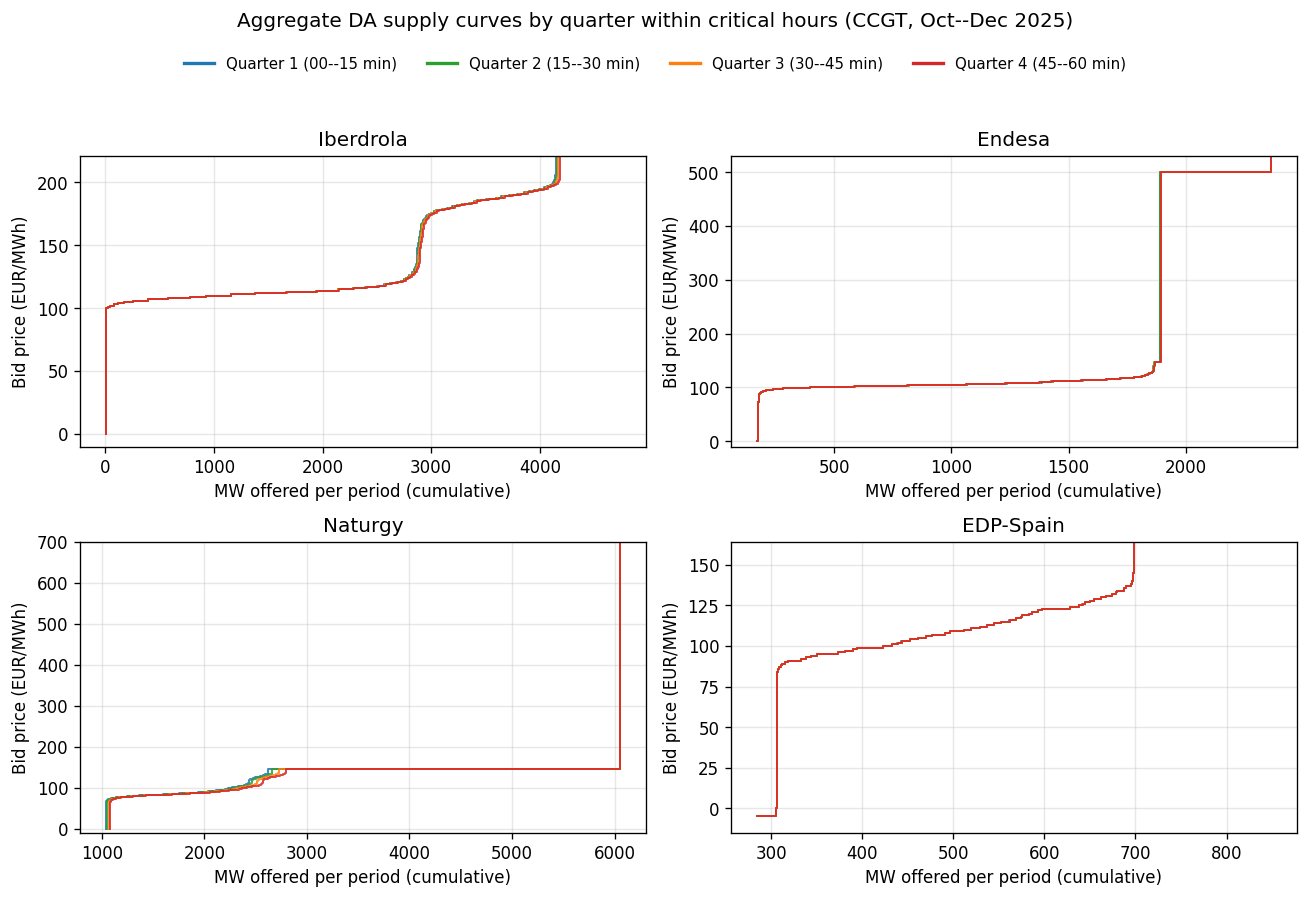
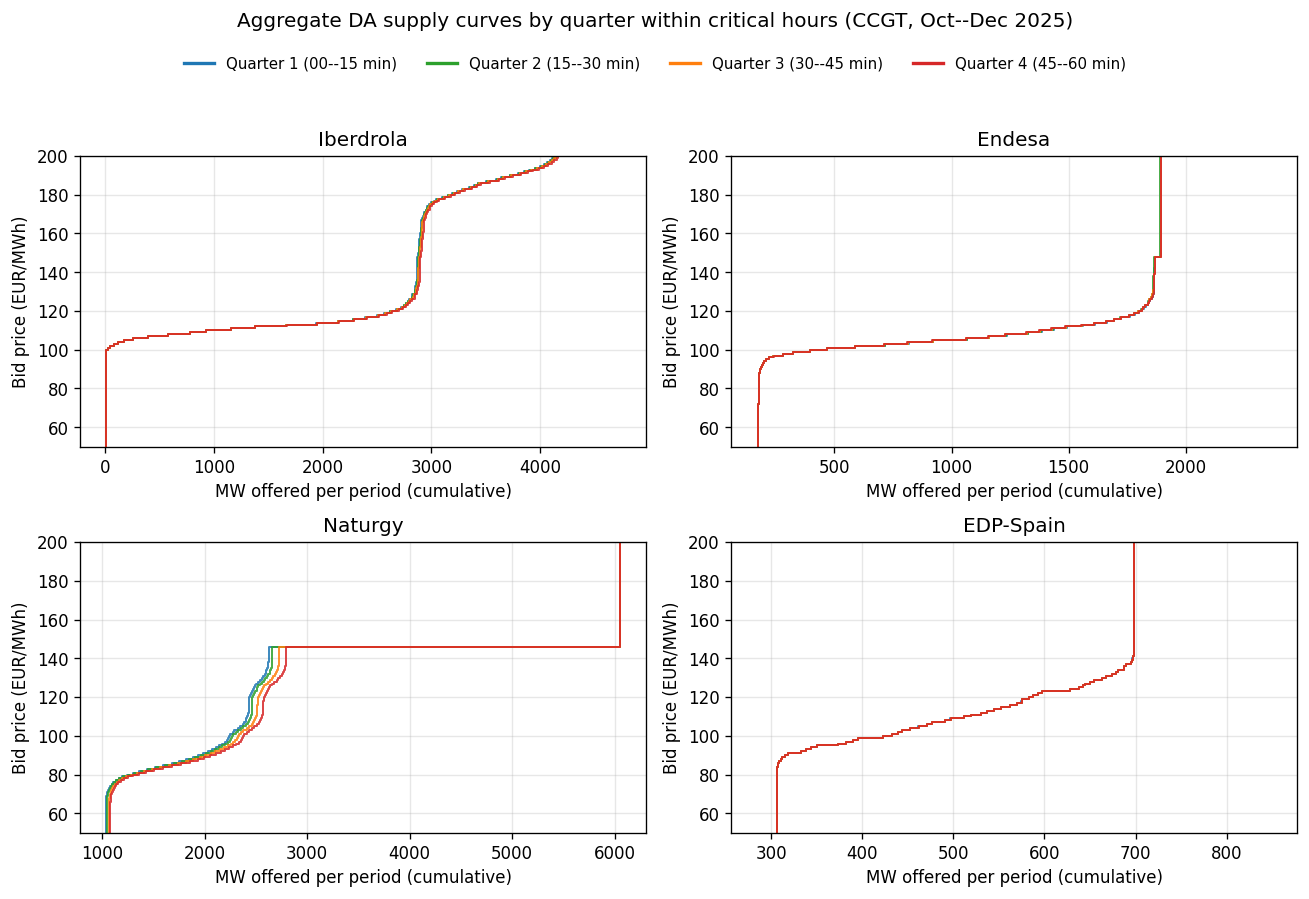
Bid-shape: zoom Fig 5 to 50-200 EUR, trim Wind/Solar PV from paper
Three changes to the section-4.2 bid-shape figures, addressing user
feedback:

1. Fig 5 (CCGT quarter curves) y-axis zoomed to 50-200 EUR/MWh, the
   clearing-relevant band. Naturgy's quarter dispersion in the 1,500-
   2,800 MW range is now visible; previously the curves all looked
   identical because most of the y-axis was occupied by the cap tail.

2. Wind, Solar PV, Nuclear and Coal appendix figures (both per-hour
   and per-quarter) removed from the paper. They were uninformative:
   wind / solar units bid at the floor and aggregator UOs pool many
   small farms into noisy composite curves; nuclear and coal are held
   by a single pivotal firm under primary-owner allocation. The script
   still produces them; they are simply not wired into the paper.

3. Appendix bid-shape section restructured: one subsection covering
   Hydro only (both per-hour and per-quarter). Concise reading: hydro
   shows hour-of-day shape variation but no within-hour granularity
   exploitation.

diff --git a/thesis/paper/paper.tex b/thesis/paper/paper.tex
@@ -240,7 +240,7 @@ TotalEnergies          & 0.000 & 0.000 & 0.000 \\
 \begin{figure}[H]
 \centering
 \includegraphics[width=0.95\textwidth]{figures/fig_per_firm_bid_curves.pdf}
-\caption{\textbf{Aggregate DA supply curves by pivotal firm and clock-hour, CCGT, October--December 2025.} EUPHEMIA aggregation (public description, sec.~7.1) per (firm, hour): pool sell tranches, sort ascending by price, cumulate, normalise by $N_{\text{dates}} \times 4$ quarters. Red: 11 critical hours; green: 4 midday hours (11:00--14:00, dropped from the DiD); blue: 3 flat hours. Submission rates by hour-class in Table~\ref{tab:per_firm_offer_rate}; other technologies in Appendix~\ref{app:supply_curves_other_tech}.}
+\caption{\textbf{Aggregate DA supply curves by pivotal firm and clock-hour, CCGT, October--December 2025.} EUPHEMIA aggregation (public description, sec.~7.1) per (firm, hour): pool sell tranches, sort ascending by price, cumulate, normalise by $N_{\text{dates}} \times 4$ quarters. Red: 11 critical hours; green: 4 midday hours (11:00--14:00, dropped from the DiD); blue: 3 flat hours. Submission rates by hour-class in Table~\ref{tab:per_firm_offer_rate}; Hydro analogue in Appendix~\ref{app:supply_curves_other_tech}.}
 \label{fig:per_firm_bid_curves}
 \end{figure}
 
@@ -258,11 +258,11 @@ TotalEnergies          & 0.000 & 0.000 & 0.000 \\
 \begin{figure}[H]
 \centering
 \includegraphics[width=0.95\textwidth]{figures/fig_per_firm_bid_curves_quarters_ccgt.pdf}
-\caption{\textbf{Aggregate DA supply curves by quarter within critical hours, CCGT.} EUPHEMIA aggregation per (firm, quarter) over the 11 critical hours and all days in October--December 2025. One curve per quarter.}
+\caption{\textbf{Aggregate DA supply curves by quarter within critical hours, CCGT.} EUPHEMIA aggregation per (firm, quarter) over the 11 critical hours and all days in October--December 2025. Y-axis zoomed to 50--200 EUR/MWh, the clearing-relevant band. One curve per quarter.}
 \label{fig:per_firm_bid_curves_quarters_ccgt}
 \end{figure}
 
-\textit{Reading} (\textbf{mixed}). On average over critical hours the four quarter-curves nearly coincide for all four firms --- consistent with the mechanical-repeat rates in Table~\ref{tab:per_firm_bid_shape}. Naturgy shows the largest within-hour quarter dispersion, visible around 2{,}400--2{,}900 MW. Granularity is exploited episodically, not as a systematic four-quarter bid plan. Hydro, Wind and Solar PV per-quarter analogues are in Appendix~\ref{app:supply_curves_other_tech}.
+\textit{Reading} (\textbf{mixed}). Naturgy shows visible quarter dispersion in the 1{,}500--2{,}800 MW band: Q1 sits below Q4 in the body of the curve. Iberdrola, Endesa and EDP-Spain produce four overlapping curves. Granularity is exploited episodically by one firm, not as a systematic four-quarter bid plan. Hydro analogue in Appendix~\ref{app:supply_curves_other_tech}.
 
 % =====================================================================
 \section{Main empirical results}\label{sec:results}
@@ -414,63 +414,32 @@ The full table of $\beta_3$ stratified by technology (with the non-pivotal place
 
 \textit{Reading} (\textbf{supportive}). Within each firm, critical / midday / flat rates differ by $<0.003$. No hour-class selection: same units bid across hour classes.
 
-\subsection{Per-firm aggregate supply curves, other technologies}\label{app:supply_curves_other_tech}
+\subsection{Per-firm aggregate supply curves, Hydro}\label{app:supply_curves_other_tech}
 
-% TODO prose. Same construction as Figure 4 but for hydro, wind, and
-% solar PV (CCGT is in the main text). Nuclear and coal are not shown
-% because under primary_owner allocation only one pivotal firm holds
-% the assets (Nuclear -> Endesa via Asco/Vandellos; Coal -> EDP-Spain
-% via Soto de Ribera), so the cross-firm comparison degenerates.
+% TODO prose. Hydro is the only non-CCGT technology where pivotal firms
+% all have meaningful unit counts and where the supply curve has shape
+% (price-taker techs like wind and solar bid at the floor and do not
+% exploit granularity; nuclear and coal are held by a single pivotal
+% firm under primary-owner allocation). Wind and Solar PV per-hour /
+% per-quarter figures are produced by the same script but omitted from
+% the paper for brevity (the curves cluster at the price floor with
+% negligible within-day variation).
 
 \begin{figure}[H]
 \centering
 \includegraphics[width=0.95\textwidth]{figures/fig_per_firm_bid_curves_hydro.pdf}
-\caption{\textbf{Aggregate DA supply curves, Hydro, October--December 2025.} Same construction as Figure~\ref{fig:per_firm_bid_curves}.}
+\caption{\textbf{Aggregate DA supply curves by clock-hour, Hydro.} Same construction as Figure~\ref{fig:per_firm_bid_curves}.}
 \label{fig:supply_curves_hydro}
 \end{figure}
-
-\textit{Reading} (\textbf{mixed}). Iberdrola and Naturgy show clear within-class spread of red curves --- hydro is reservoir-managed but still bid-shaped within the day. Endesa's hydro is tiny and concentrated at a few capacity bins. EDP-Spain hydro is essentially a single curve across all hours: no within-day differentiation.
-
-\begin{figure}[H]
-\centering
-\includegraphics[width=0.95\textwidth]{figures/fig_per_firm_bid_curves_wind.pdf}
-\caption{\textbf{Aggregate DA supply curves, Wind, October--December 2025.} Same construction as Figure~\ref{fig:per_firm_bid_curves}.}
-\label{fig:supply_curves_wind}
-\end{figure}
-
-\textit{Reading} (\textbf{supportive}). Wind units bid at the price floor as expected of a price-taker technology; the curves are essentially horizontal. Cross-hour spread is minimal -- consistent with the prediction that intermittent renewables do not exploit within-hour granularity.
-
-\begin{figure}[H]
-\centering
-\includegraphics[width=0.95\textwidth]{figures/fig_per_firm_bid_curves_solar_pv.pdf}
-\caption{\textbf{Aggregate DA supply curves, Solar PV, October--December 2025.} Same construction as Figure~\ref{fig:per_firm_bid_curves}.}
-\label{fig:supply_curves_solar_pv}
-\end{figure}
-
-\textit{Reading} (\textbf{supportive}). Same picture as Wind: solar PV bids cluster at the price floor with negligible within-day variation. The Endesa panel is essentially empty -- under the primary-owner allocation Endesa retains little solar capacity in our sample window. Nuclear and Coal are omitted: under primary-owner allocation only one pivotal firm holds the assets (Asc\'o / Vandell\`os $\to$ Endesa; Soto de Ribera coal $\to$ EDP-Spain), so the within-firm comparison degenerates.
 
 \begin{figure}[H]
 \centering
 \includegraphics[width=0.95\textwidth]{figures/fig_per_firm_bid_curves_quarters_hydro.pdf}
-\caption{\textbf{Aggregate DA supply curves by quarter, Hydro.} Same construction as Figure~\ref{fig:per_firm_bid_curves_quarters_ccgt}, restricted to critical hours.}
+\caption{\textbf{Aggregate DA supply curves by quarter, Hydro, critical hours.} Same construction as Figure~\ref{fig:per_firm_bid_curves_quarters_ccgt}.}
 \label{fig:supply_curves_quarters_hydro}
 \end{figure}
 
-\begin{figure}[H]
-\centering
-\includegraphics[width=0.95\textwidth]{figures/fig_per_firm_bid_curves_quarters_wind.pdf}
-\caption{\textbf{Aggregate DA supply curves by quarter, Wind.}}
-\label{fig:supply_curves_quarters_wind}
-\end{figure}
-
-\begin{figure}[H]
-\centering
-\includegraphics[width=0.95\textwidth]{figures/fig_per_firm_bid_curves_quarters_solar_pv.pdf}
-\caption{\textbf{Aggregate DA supply curves by quarter, Solar PV.}}
-\label{fig:supply_curves_quarters_solar_pv}
-\end{figure}
-
-\textit{Reading} (\textbf{supportive}). Across Hydro, Wind and Solar PV the four quarter-curves are visually indistinguishable for every firm. None of the non-CCGT technologies of pivotal firms exploits the within-hour granularity of the day-ahead market.
+\textit{Reading} (\textbf{mixed}). Iberdrola and Naturgy spread their hydro curves across critical hours while EDP-Spain's hydro is essentially a single curve. The four quarter-curves coincide for every firm: hydro is reservoir-managed and does not exploit within-hour granularity even though it has bid-shape capacity.
 
 \subsection{Time placebos}\label{app:time_placebos}
 

diff --git a/scripts/analysis/bid/per_firm_bid_curves.py b/scripts/analysis/bid/per_firm_bid_curves.py
@@ -199,7 +199,7 @@ def build_per_quarter_curves(df):
     return pd.concat(out, ignore_index=True)
 
 
-def plot_quarter_curves(curves, tech_label, out_stem):
+def plot_quarter_curves(curves, tech_label, out_stem, ylim=None):
     fig, axes = plt.subplots(2, 2, figsize=(11, 7.5))
     firms_to_plot = ["IB", "GE", "GN", "HC"]
     quarter_colors = {1: "#1f77b4", 2: "#2ca02c", 3: "#ff7f0e", 4: "#d62728"}
@@ -215,7 +215,9 @@ def plot_quarter_curves(curves, tech_label, out_stem):
         ax.set_xlabel("MW offered per period (cumulative)")
         ax.set_ylabel("Bid price (EUR/MWh)")
         ax.grid(alpha=0.3)
-        if len(panel) > 0:
+        if ylim is not None:
+            ax.set_ylim(*ylim)
+        elif len(panel) > 0:
             qpp = panel.groupby("price")["qty"].sum().sort_index()
             cum = qpp.cumsum() / qpp.sum()
             p_low = float(qpp.index.min())
@@ -394,9 +396,13 @@ def main():
                      "CCGT", str(FIGDIR / "fig_per_firm_bid_curves"))
 
     # Quarter-within-hour comparison (CCGT, critical hours)
+    # Zoom y-axis to the relevant clearing band (50-200 EUR/MWh) so
+    # quarter-to-quarter variation in the body of the supply curve
+    # is visible.
     print("CCGT per-quarter curves (granularity exploitation)...")
     plot_quarter_curves(build_per_quarter_curves(ccgt),
-                         "CCGT", str(FIGDIR / "fig_per_firm_bid_curves_quarters_ccgt"))
+                         "CCGT", str(FIGDIR / "fig_per_firm_bid_curves_quarters_ccgt"),
+                         ylim=(50, 200))
 
     # CCGT offer-rate diagnostic (per-unit, averaged within firm-hour-class)
     diag, per_unit = build_offer_diagnostics(ccgt)